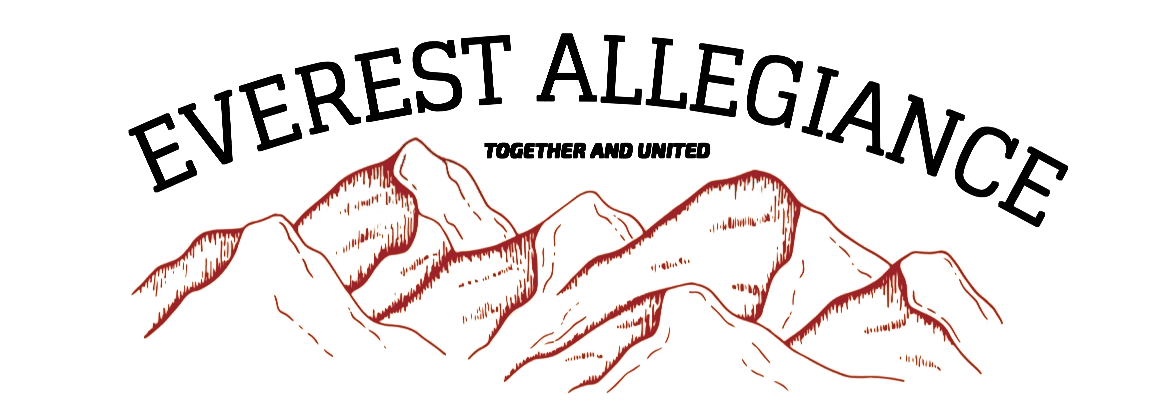
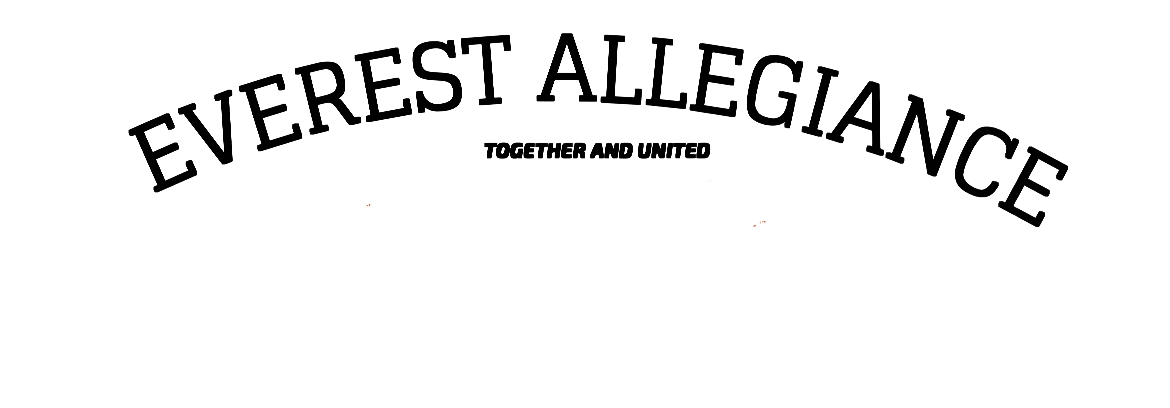
design changes

Changed region(s): [[0.2154, 0.3235, 0.8615, 0.9706], [0.0923, 0.5588, 0.2154, 0.8235], [0.7077, 0.9118, 0.7692, 0.9412]]

diff --git a/src/App.css b/src/App.css
@@ -10,6 +10,19 @@ body {
   background: var(--color-bg);
 }
 
+.img_div {
+  position: relative; 
+    height: 100vh;
+    width: 100%;
+    display: flex;
+    align-items: center;
+    justify-content: center;
+    background-image: url("./assets/images/mt_everest_darkened.png");
+      background-size: cover;
+}
+
+
+
 :target {
   margin: -100px 0 0;
 }
@@ -25,6 +38,10 @@ a {
   text-decoration: none;
 }
 
+.image__bg {
+    background-image: url("./assets/images/mt_everest.jpg");
+  }
+
 .gradient__bg {
   /* ff 3.6+ */
   background: -moz-radial-gradient(circle at 3% 25%, rgba(0, 40, 83, 1) 0%, rgba(3, 26, 53, 1) 48%, rgba(4, 12, 24, 1) 100%);
@@ -39,7 +56,7 @@ a {
   background: -ms-radial-gradient(circle at 3% 25%, rgba(0, 40, 83, 1) 0%, rgba(3, 26, 53, 1) 48%, rgba(4, 12, 24, 1) 100%);
 
   /* global 92%+ browsers support */
-  background: radial-gradient(circle at 3% 25%, rgba(0, 40, 83, 1) 0%, rgba(3, 26, 53, 1) 48%, rgba(4, 12, 24, 1) 100%);
+  background: radial-gradient(circle at 3% 25%, rgb(22, 73, 128) 0%, rgba(3, 26, 53, 1) 48%, rgba(4, 12, 24, 1) 100%);
 }
 
 
@@ -76,6 +93,8 @@ a {
 .section__margin {
   margin: 4rem 6rem;
 }
+
+
 
 .scale-up-center {
 	-webkit-animation: scale-up-center 0.1s cubic-bezier(0.390, 0.575, 0.565, 1.000) both;

diff --git a/src/App.tsx b/src/App.tsx
@@ -4,11 +4,12 @@ import Header from "./components/Header/Header";
 import About from "./components/About/About";
 import Events from "./components/Events/Events";
 import Members from "./components/Members/Members";
+import everest_bg from "./assets/images/mt_everest.jpg";
 
 function App() {
 	return (
 		<div className="appContainer">
-			<div className="gradient__bg">
+			<div className="img_div">
 				<NavBar />
 				<Header />
 			</div>

diff --git a/src/components/Events/Events.css b/src/components/Events/Events.css
@@ -79,6 +79,19 @@
     .everest__events-container {
         flex-direction: column;
     }
+
+    .everest__events-event-container {
+        flex-direction: column;
+    }
+
+    .everest__events-event {
+        margin-bottom: 0;
+    }
+
+    .everest__events-event-description {
+        margin-top: 0;
+        margin-bottom: 1.5rem;
+    }
 }
 
 @media screen and (max-width: 650px) {

diff --git a/src/components/Header/Header.tsx b/src/components/Header/Header.tsx
@@ -1,5 +1,5 @@
 import "./Header.css";
-import transparent_logo from "../../assets/images/everest_transparent_white.png";
+import transparent_logo from "../../assets/images/everest_new_small.png";
 
 const Header = () => {
 	return (

diff --git a/src/components/Header/Header.css b/src/components/Header/Header.css
@@ -63,6 +63,7 @@
 .everest__header-image img{
     width: 90%;
     height: auto;
+    margin-bottom: 2rem;
 }
 
 @media screen and (max-width: 1050px) {

diff --git a/src/components/Members/Members.css b/src/components/Members/Members.css
@@ -6,8 +6,6 @@
     flex: 1;
 }
 
-
-
 .everest__members-header {
     display: flex;
     align-items: center;
